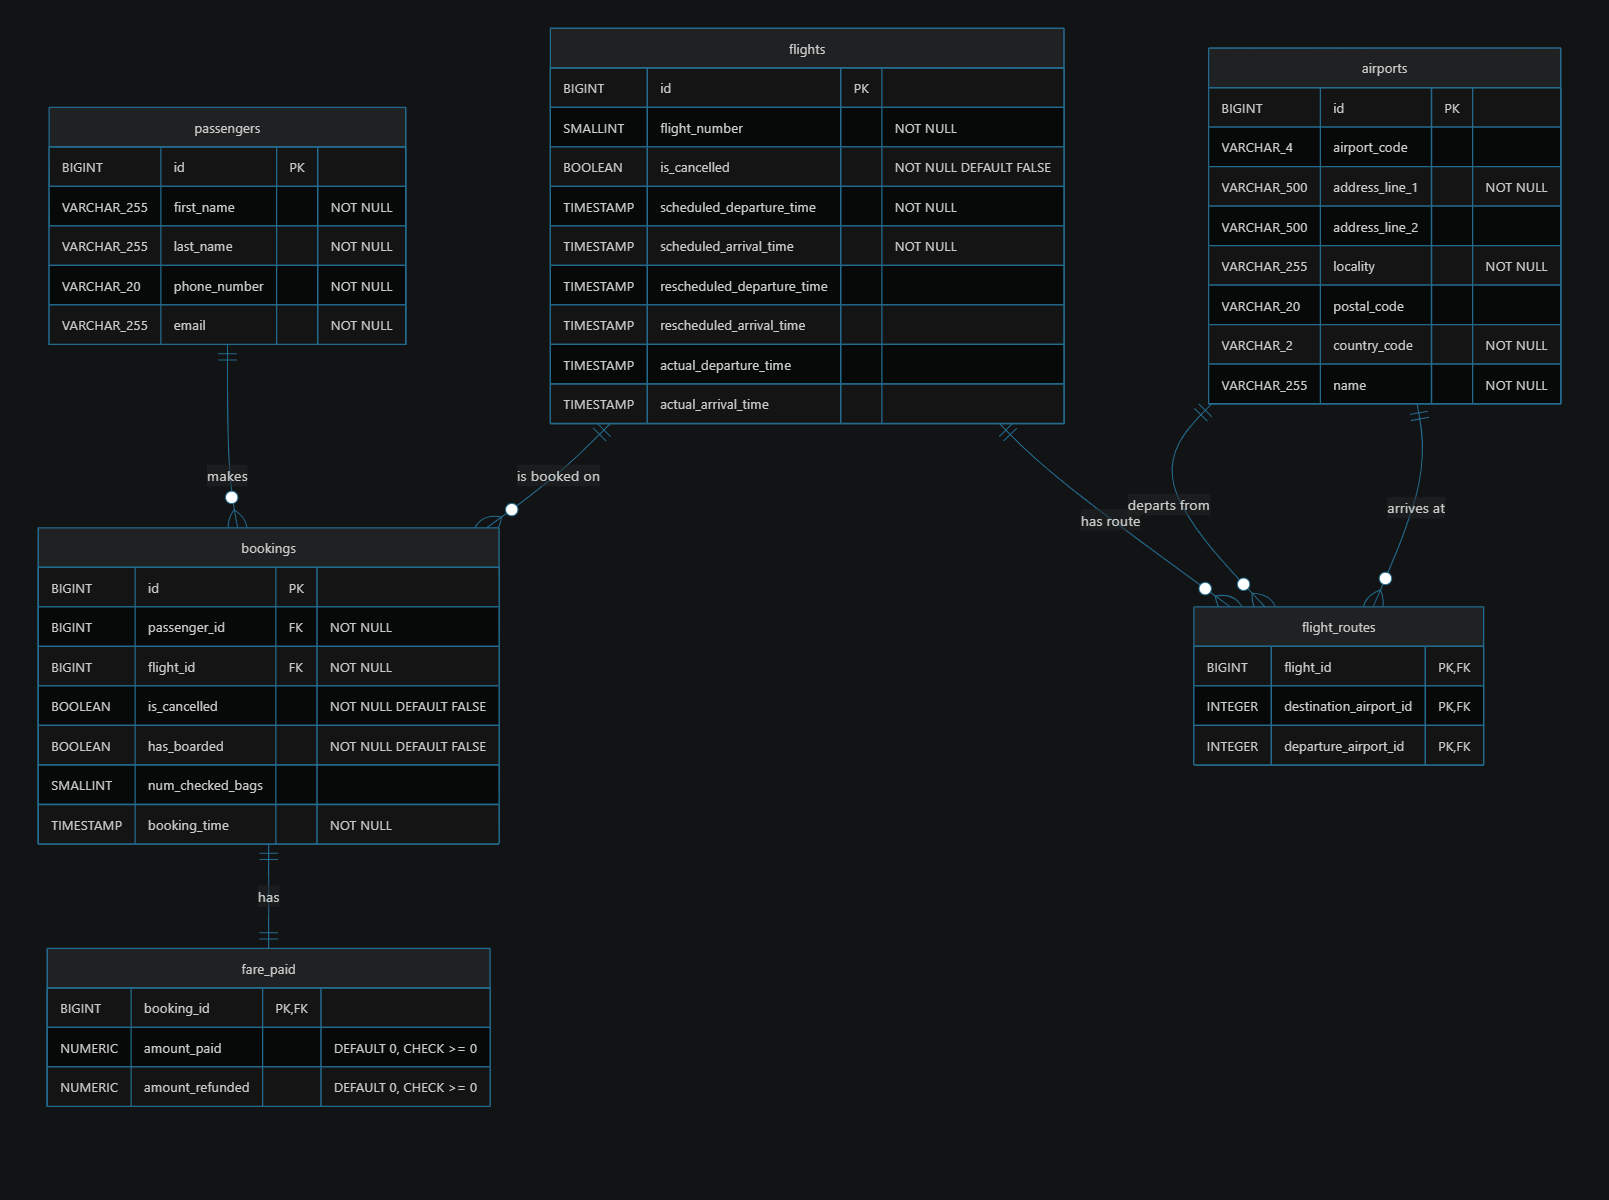
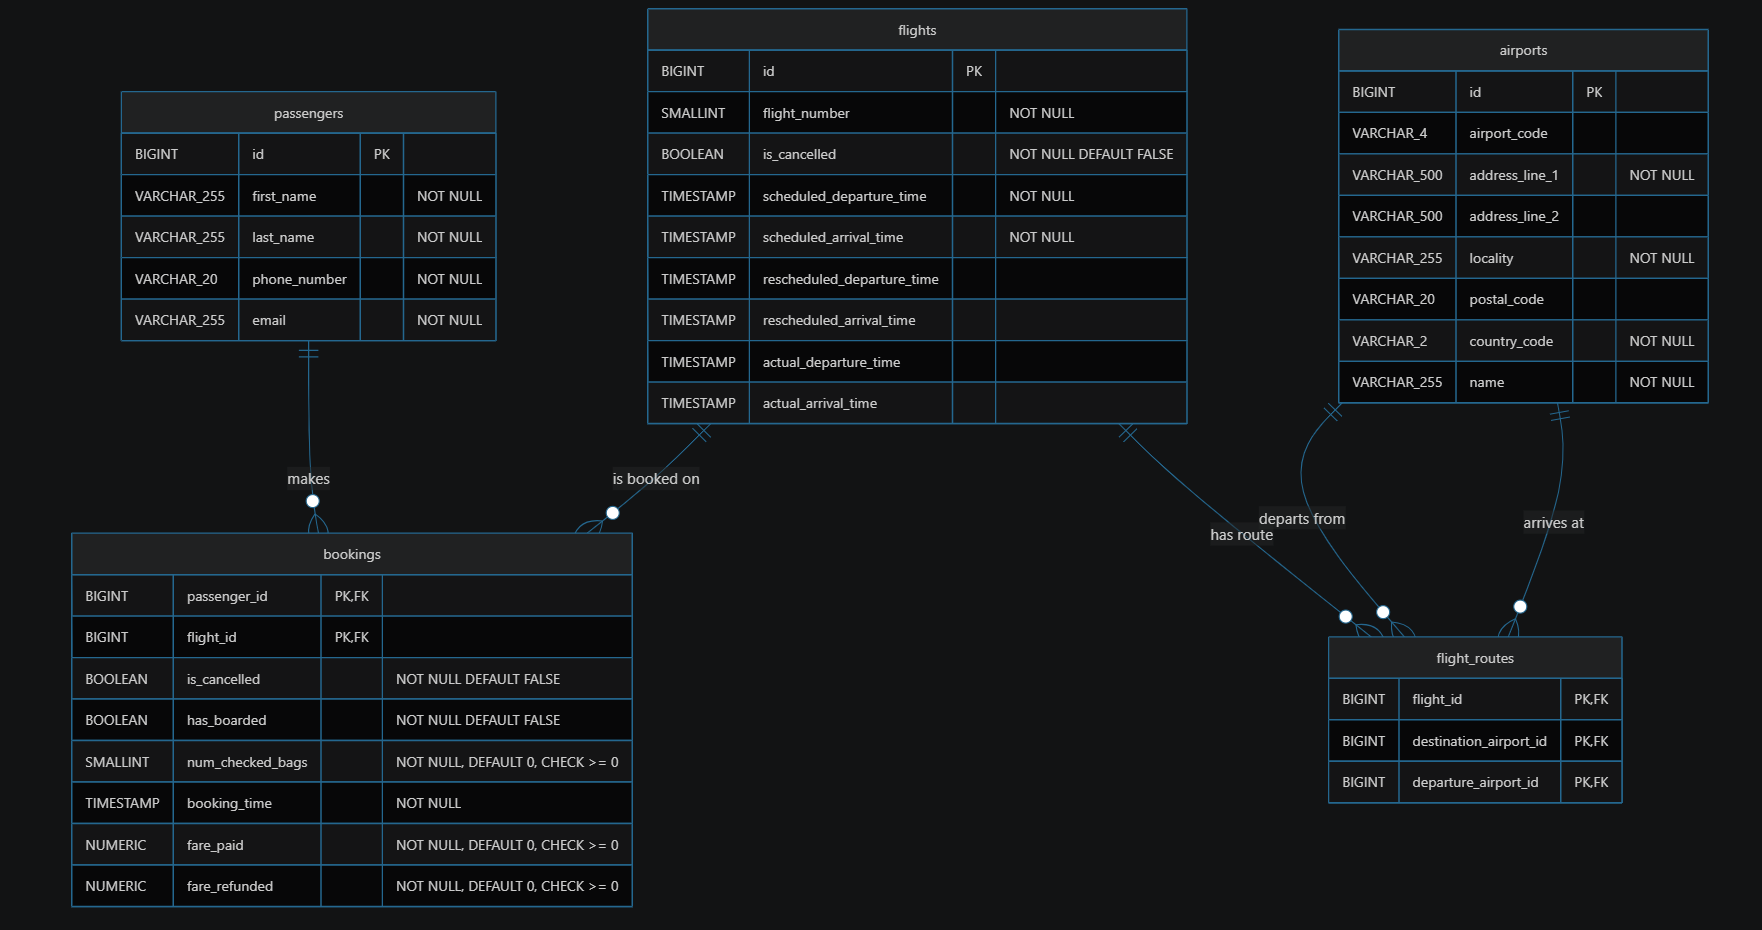
Update schema to fix mistakes. Add reflection.

diff --git a/schema/constraints.md b/schema/constraints.md
@@ -29,13 +29,14 @@
 
 | Attribute | Key | FK Reference | Constraints | Rationale for constraints | FK ON DELETE behavior | Rationale for ON DELETE behavior |
 |---|---|---|---|---|---|---|
-| id | PK |  | Default PK constraints | Default constraints for primary key, such as uniqueness and non-null, are sufficient | | |
-| passenger_id | FK | passengers.id | NOT NULL | A passenger is required for booking a flight. | NO ACTION | If a passenger is deleted (I don't think we would ever want to delete a passenger record), we still want to keep a record of the booking |
-| flight_id | FK | flights.id | NOT NULL | A flight is required for booking a flight. | NO ACTION | If a flight is deleted (I don't think we would ever want to delete a flight record), we still want to keep a record of the booking |
+| passenger_id | PK, FK | passengers.id | | | NO ACTION | If a passenger is deleted (I don't think we would ever want to delete a passenger record), we still want to keep a record of the booking |
+| flight_id | PK, FK | flights.id | | | NO ACTION | If a flight is deleted (I don't think we would ever want to delete a flight record), we still want to keep a record of the booking |
 | is_cancelled |  |  | NOT NULL DEFAULT FALSE | Cancellation happens after a booking is made | | |
 | has_boarded |  |  | NOT NULL DEFAULT FALSE | Booking happens before a passenger boards the flight | | |
-| num_checked_bags |  |  | No constraints | | | |
+| num_checked_bags |  |  | NOT NULL, DEFAULT 0, CHECK (num_checked_bags >= 0) | Prevents math errors and enforces consistency by ensuring that each entry is non-null and greater than or equal to 0. If the application was allowed to start putting negative numbers in one day and positive the next, it would be problematic for any calculations using this attribute. | | |
 | booking_time |  |  | NOT NULL | Timestamp of when the booking was made. Required for auditing and for aggregating/reporting on booking activity over time. | | |
+| fare_paid |  |  | NOT NULL, DEFAULT 0, CHECK (fare_paid >= 0) | Prevents math errors and enforces consistency by ensuring that each entry is non-null and greater than or equal to 0. If the application was allowed to start putting negative numbers in one day and positive the next, it would be problematic for any calculations using this attribute. | | |
+| fare_refunded |  |  | NOT NULL, DEFAULT 0, CHECK (fare_refunded >= 0) | Prevents math errors and enforces consistency by ensuring that each entry is non-null and greater than or equal to 0. If the application was allowed to start putting negative numbers in one day and positive the next, it would be problematic for any calculations using this attribute. | | |
 
 ## airports
 
@@ -54,14 +55,8 @@
 
 | Attribute | Key | FK Reference | Constraints | Rationale for constraints | FK ON DELETE behavior | Rationale for ON DELETE behavior |
 |---|---|---|---|---|---|---|
-| flight_id | PK, FK | flights.id | Default PK constraints | Default constraints for primary key, such as uniqueness and non-null, are sufficient | NO ACTION | If a flight record is deleted for some reason, we don't want to lose a record of the route, for auditability purposes |
-| destination_airport_id | PK, FK | airports.id | Default PK constraints | Default constraints for primary key, such as uniqueness and non-null, are sufficient | NO ACTION | If an airport is deleted for some reason, we still want to maintain a record of the flight |
-| departure_airport_id | PK, FK | airports.id | Default PK constraints | Default constraints for primary key, such as uniqueness and non-null, are sufficient | NO ACTION | If an airport is deleted for some reason, we still want to maintain a record of the flight |
+| flight_id | PK, FK | flights.id | | | NO ACTION | If a flight record is deleted for some reason, we don't want to lose a record of the route, for auditability purposes |
+| destination_airport_id | PK, FK | airports.id | | | NO ACTION | If an airport is deleted for some reason, we still want to maintain a record of the flight |
+| departure_airport_id | PK, FK | airports.id | | | NO ACTION | If an airport is deleted for some reason, we still want to maintain a record of the flight |
 
-## fare_paid
 
-| Attribute | Key | FK Reference | Constraints | Rationale for constraints | FK ON DELETE behavior | Rationale for ON DELETE behavior |
-|---|---|---|---|---|---|---|
-| booking_id | PK, FK | bookings.id | Default PK constraints | Default constraints for primary key, such as uniqueness and non-null, are sufficient | CASCADE | If the booking is deleted for some reason, then there is no reason to keep this. Since it's a 1:1 cardinality, it would be completely orphaned and meaningless without a booking ID |
-| amount_paid |  |  | DEFAULT 0, CHECK (amount_paid >= 0) | Prevents math errors and enforces consistency by ensuring that each entry is non-null and greater than or equal to 0. If the application was allowed to start putting negative numbers in one day and positive the next, it would be problematic for any calculations using these attributes. | | |
-| amount_refunded |  |  | DEFAULT 0, CHECK (amount_refunded >= 0) | Prevents math errors and enforces consistency by ensuring that each entry is non-null and greater than or equal to 0. If the application was allowed to start putting negative numbers in one day and positive the next, it would be problematic for any calculations using these attributes. | | |

diff --git a/analysis/unit1.md b/analysis/unit1.md
@@ -1,0 +1,49 @@
+# Modeling Justification
+
+I designed this database schema to meet the most basic reporting requirements that would be expected from a flight booking system for a commercial airline: on-time performance, cancellation rate, revenue reporting, route traffic analysis, and passenger reachability. A real-life flight booking system would be much more complex, with a much broader scope of requirements than what we could realistically accommodate in this class. This system represents my best effort to balance real-world business expectations with the practical constraints of a classroom setting.
+
+The system considers four types of entities: passengers, flights, bookings and airports. Five tables are used to model the entities and their relationships, described below. 
+
+## Passengers
+
+Passenger information, including name, phone number, and email address, are required. All passenger information fields enforce a non-null constraint, because the airline needs to know the passenger’s name and how to contact them. A unique integer primary key is used for each customer row, rather than a natural key on any of the customer information, due to immutability of an integer key.
+
+## Flights
+
+This table maintains information about a flight: the flight number, cancellation status, and timestamp fields tracking the scheduled departure/arrival times, rescheduled departure/arrival times, and actual departure/arrival times. 
+
+Flight number is the human-readable identifier for a flight, as used by most commercial airlines today. It’s a small int and has a NOT NULL constraint, since human users will typically use this identifier when referring to a flight.
+
+Scheduled arrival and departure have a NOT NULL constraint, since all flights should have a scheduled arrival and departure time upon creation. The other timestamp fields that track the flight are allowed to be null, since a) not all flights will have a rescheduled time and b) actual departure/arrival time will not be known at the time a record is created in the database – only after the flight has happened.
+
+## Bookings
+
+Passengers create bookings (a one-to-many relationship between passengers and bookings). A flight has many bookings (one-to-many relationship between flights and bookings). 
+
+As such, the bookings table has a foreign key attribute for both passenger id and flight id. This pairing (passenger + flight) uniquely identifies a booking, so the primary key can be represented as a composite of the flight ID + passenger ID. Even if a flight or passenger is deleted, we don’t want to cascade the delete to either of these foreign key fields, for auditability and to preserve uniqueness of the composite key. 
+
+Booking-specific information is tracked in this table:
+
+- is_cancelled
+- has_boarded
+- num_checked_bags
+- booking_time
+- fare_paid
+- fare_refunded
+
+Each of these fields enforces a NOT NULL constraint. Booking time should always be recorded, and a null value would be meaningless and should never be inserted into the remainder of the fields. 
+
+The Boolean fields default to false, as the booking is neither cancelled nor has the customer boarded at the time of booking. 
+
+The numeric fields default to 0 and must be greater than or equal to 0. If an application was allowed to start putting negative numbers in these one day and positive the next, it would be problematic for any metric reporting on these attributes.
+
+## Airports
+
+This table tracks locale information related to each airport. Airport name, address line 1, locality, and country code have a NOT NULL constraint, as all airports globally should have these. 
+
+## Flight-Routes
+
+Junction table supporting the many-to-many relationship between flights and airports. Its only columns are foreign key columns, which form a composite primary key: flight ID, departing airport ID, and destination airport ID.
+
+# Reflection
+150-200 words

diff --git a/schema/erd.md b/schema/erd.md
@@ -21,13 +21,14 @@ erDiagram
     }
 
     bookings {
-        BIGINT id PK
-        BIGINT passenger_id FK "NOT NULL"
-        BIGINT flight_id FK "NOT NULL"
+        BIGINT passenger_id PK, FK
+        BIGINT flight_id PK, FK
         BOOLEAN is_cancelled "NOT NULL DEFAULT FALSE"
         BOOLEAN has_boarded "NOT NULL DEFAULT FALSE"
-        SMALLINT num_checked_bags
+        SMALLINT num_checked_bags "NOT NULL, DEFAULT 0, CHECK >= 0"
         TIMESTAMP booking_time "NOT NULL"
+        NUMERIC fare_paid "NOT NULL, DEFAULT 0, CHECK >= 0"
+        NUMERIC fare_refunded "NOT NULL, DEFAULT 0, CHECK >= 0"
     }
 
     airports {
@@ -43,19 +44,12 @@ erDiagram
 
     flight_routes {
         BIGINT flight_id PK, FK
-        INTEGER destination_airport_id PK, FK
-        INTEGER departure_airport_id PK, FK
-    }
-
-    fare_paid {
-        BIGINT booking_id PK, FK
-        NUMERIC amount_paid "DEFAULT 0, CHECK >= 0"
-        NUMERIC amount_refunded "DEFAULT 0, CHECK >= 0"
+        BIGINT destination_airport_id PK, FK
+        BIGINT departure_airport_id PK, FK
     }
 
     passengers ||--o{ bookings : "makes"
     flights ||--o{ bookings : "is booked on"
-    bookings ||--|| fare_paid : "has"
     flights ||--o{ flight_routes : "has route"
     airports ||--o{ flight_routes : "departs from"
     airports ||--o{ flight_routes : "arrives at"

diff --git a/schema/schema-definition.md b/schema/schema-definition.md
@@ -28,13 +28,14 @@
 
 | Attribute | Type | Key | FK Reference |
 |---|---|---|---|
-| id | BIGINT | PK | |
-| passenger_id | BIGINT | FK | passengers.id |
-| flight_id | BIGINT | FK | flights.id |
+| passenger_id | BIGINT | PK, FK | passengers.id |
+| flight_id | BIGINT | PK, FK | flights.id |
 | is_cancelled | BOOLEAN | | |
 | has_boarded | BOOLEAN | | |
 | num_checked_bags | SMALLINT | | |
 | booking_time | TIMESTAMP | | |
+| fare_paid | NUMERIC | | |
+| fare_refunded | NUMERIC | | |
 
 ## airports
 
@@ -54,13 +55,7 @@
 | Attribute | Type | Key | FK Reference |
 |---|---|---|---|
 | flight_id | BIGINT | PK, FK | flights.id |
-| destination_airport_id | INTEGER | PK, FK | airports.id |
-| departure_airport_id | INTEGER | PK, FK | airports.id |
+| destination_airport_id | BIGINT | PK, FK | airports.id |
+| departure_airport_id | BIGINT | PK, FK | airports.id |
 
-## fare_paid
 
-| Attribute | Type | Key | FK Reference |
-|---|---|---|---|
-| booking_id | BIGINT | PK, FK | bookings.id |
-| amount_paid | NUMERIC | | | |
-| amount_refunded | NUMERIC | | | |

diff --git a/README.md b/README.md
@@ -3,5 +3,18 @@
 ## Name
 Shane Nycum
 
-## Description
-Manages flight bookings for customers
+## Summary
+Flight booking system for an airline to manage customer bookings
+
+## Domain
+This system is a PostgreSQL database for manageing flight bookings for an airline. The system is designed for a single airline - NOT an airport servicing multiple airlines.
+
+It allows customers or airline staff to book flights and query information related to the customer bookings and flight statuses. It can answer questions related to:
+
+1. Passenger booking (i.e. which customers have booked a given flight?)
+
+2. Flight schedule adherence (i.e. what is the time difference between the scheduled arrival time and actual arrival time?)
+
+3. Revenue (i.e. how much revenue did a given flight generate?)
+
+4. Flight routes (i.e. which airports have the most flight activity?)
